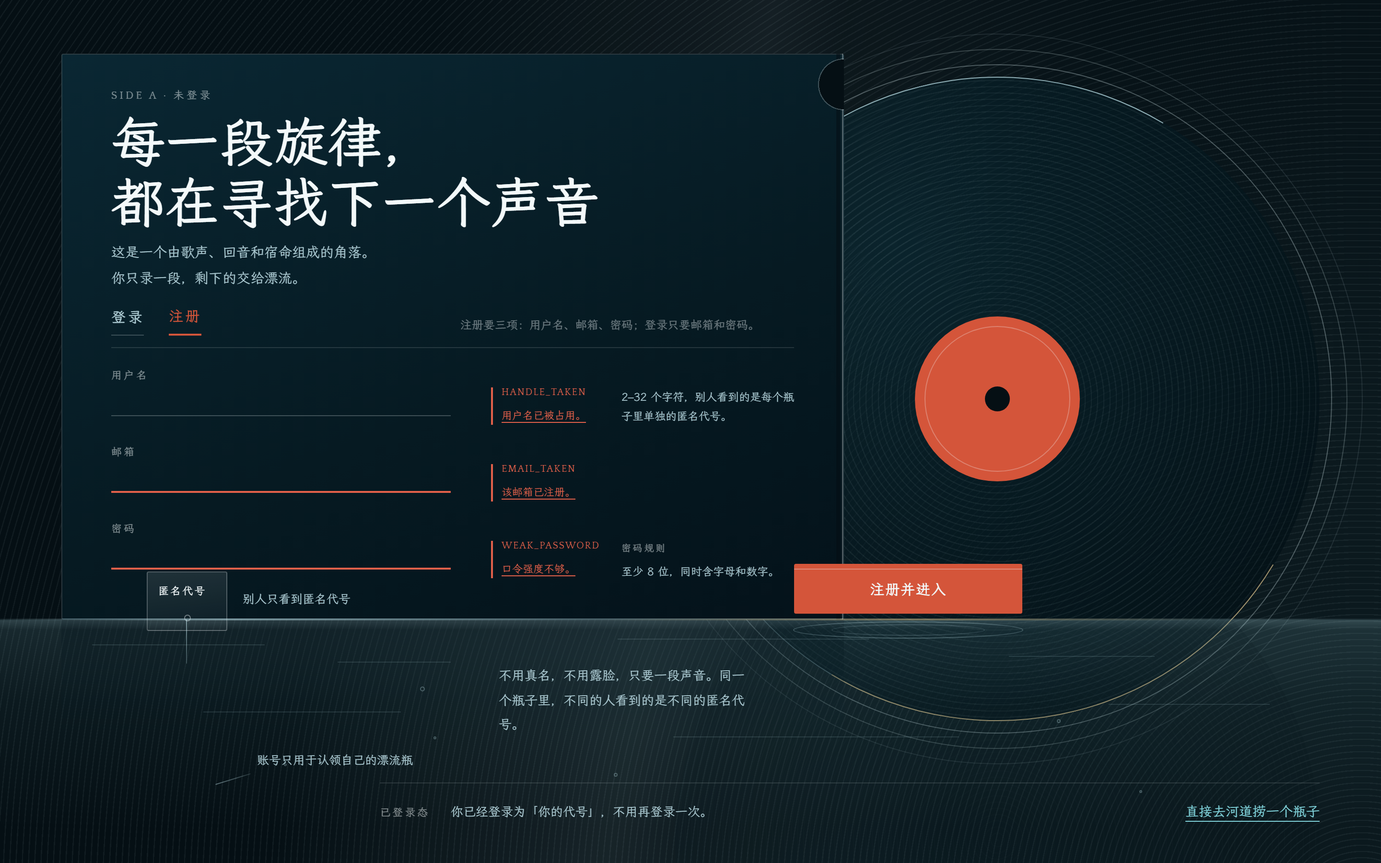
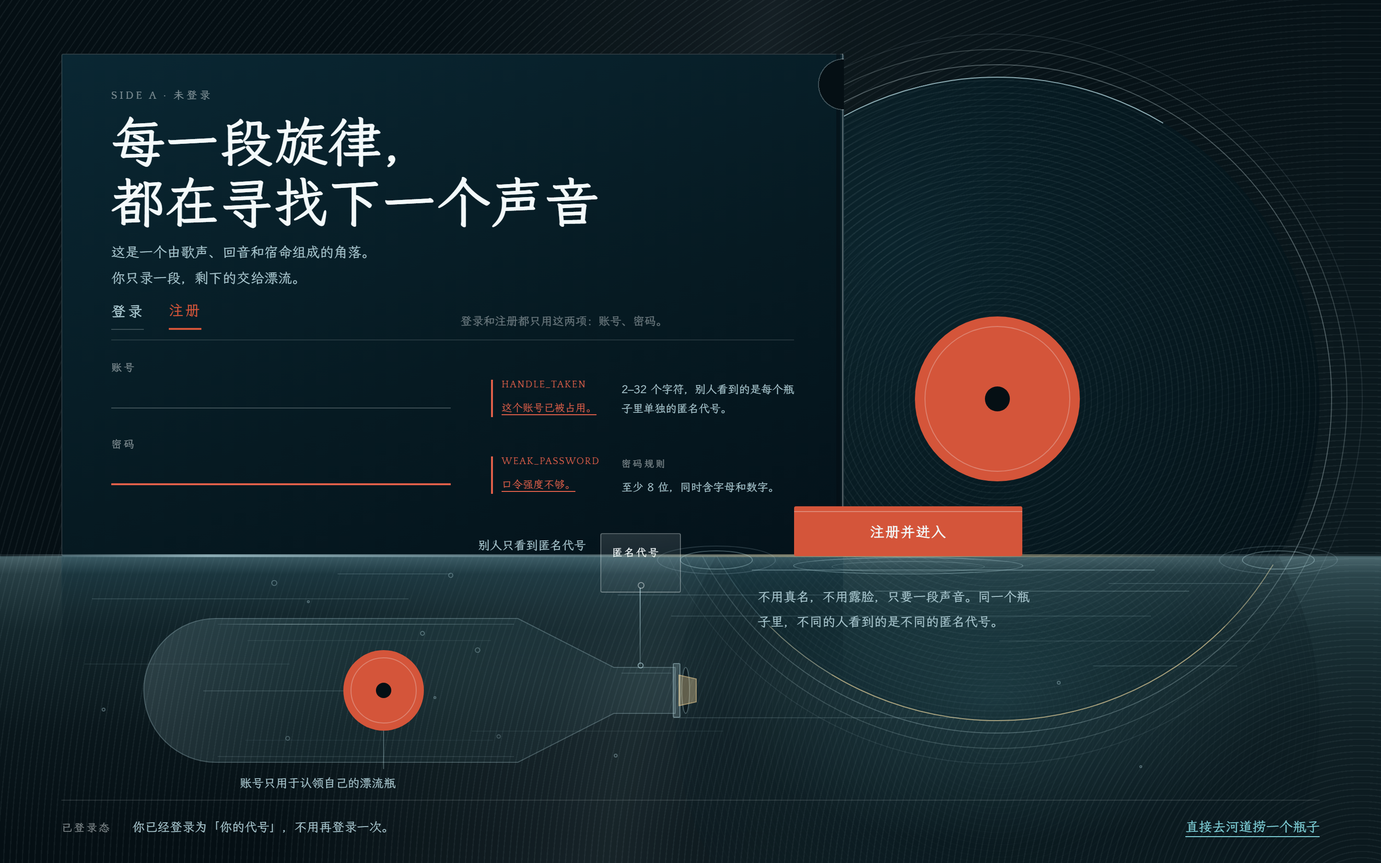
docs(design-explore): 契约 §3 登录按用户裁决改为两项（账号·密码），并把『与源码的有意偏离 + 实现依赖』写明
用户裁决：确认删掉邮箱字段。已改 _LANGUAGE.md §3：登录/注册只用『账号 · 密码』两项，错误码保留 HANDLE_TAKEN / WEAK_PASSWORD。

**同时写明这不是漏画，而是有意偏离源码**（源码 login-page.tsx 里登录与注册都传 email：name=email、login({email,password})、register({handle,email,password})、EMAIL_TAKEN 落字段），并记下实现依赖：这等于**把登录凭据从邮箱改成账号**，落地时必须同步 CONTEXT.md 与 packages/shared 的 zod 契约（以及 /auth 路由），否则前后端对不上 —— 此项在写契约/写代码阶段必须再次确认。目的：以后任何人读到这页都不会把它当 bug 修回去。

提交同时纳入登录/404 两页的漂流瓶主题适配交付（由 b2f8d37f 完成，我看过图：登录页有『认领线』的想法、404 有断流+漂走的瓶），以及随后的用户裁决 —— 登录页被判『太繁杂』已派新 agent 打回改造（要求删掉横贯水线、换掉与瓶子详情同族的横躺瓶、做到简洁/高级/艺术）。

diff --git a/docs/ui-review/design-explore/p-login-record.html b/docs/ui-review/design-explore/p-login-record.html
@@ -30,8 +30,8 @@
       .glint { position:absolute; inset:0; mix-blend-mode:screen;
         background:linear-gradient(101deg, transparent 28%, rgba(228,247,252,.045) 45%, rgba(228,247,252,.065) 50%, rgba(228,247,252,.028) 55%, transparent 72%); }
 
-      /* 唱片盘心 (1040,416) r336：左半张压在封套背后，右半张抽在外面；水线从 y=646 横切过去，
-         盘面下缘 106px 沉在水里 —— 唱片刻在沟槽上的水，和河道里的水是同一条 */
+      /* 唱片盘心 (1040,416) r336：左半张压在封套背后，右半张抽在外面；
+         水线从 y=580 横切过去，盘面下缘 172px 落在水里 —— 沟槽里流的就是这条河的水 */
       .disc { position:absolute; left:704px; top:80px; width:672px; height:672px; border-radius:50%;
         background:
           repeating-radial-gradient(circle at 50% 50%, rgba(216,243,246,.055) 0 1.2px, transparent 1.2px 6.5px),
@@ -52,58 +52,68 @@
       .label::after { content:''; position:absolute; left:50%; top:50%; width:26px; height:26px;
         margin:-13px 0 0 -13px; border-radius:50%; background:var(--ink); }
 
-      /* 封套：不透明，遮住唱片左半张；右缘是开口。**下沿正好落在水线上**，所以它是浮着的 */
-      .sleeve { position:absolute; left:64px; top:56px; width:816px; height:590px; border-radius:2px;
+      /* 封套：不透明，遮住唱片左半张；右缘是开口。下沿正好落在水线上，所以它是浮着的 */
+      .sleeve { position:absolute; left:64px; top:56px; width:816px; height:524px; border-radius:2px;
         background:linear-gradient(158deg, #0a2733 0%, #061a22 58%, #04121a 100%);
         border:1px solid rgba(243,249,250,.16); }
-      .mouth-dark { position:absolute; left:872px; top:56px; width:4px; height:590px; background:rgba(3,12,17,.5); }
-      .mouth { position:absolute; left:878px; top:56px; width:1px; height:590px; background:rgba(243,249,250,.34); }
+      .mouth-dark { position:absolute; left:872px; top:56px; width:4px; height:524px; background:rgba(3,12,17,.5); }
+      .mouth { position:absolute; left:878px; top:56px; width:1px; height:524px; background:rgba(243,249,250,.34); }
       /* 开口上的半圆指孔：真的从封套上咬掉一块，所以这里露出的是盘面底 */
       .notch { position:absolute; left:853px; top:61px; width:27px; height:54px;
         background:radial-gradient(circle 27px at 100% 50%,
           var(--ink) 0 26px, rgba(243,249,250,.24) 26px 27px, transparent 27px); }
 
-      /* ── 水面：y=646 一条横贯全页的水线 ───────────────────────────
-         线上 = 别人看到的那一面（封套、抽出的大半张盘、代号）；
-         线下 = 这只瓶子真正的样子（沉在水里的盘缘、认领线、水下的瓶）。 */
-      .below { position:absolute; left:0; right:0; top:646px; height:254px; overflow:hidden; }
+      /* ── 水面：y=580 一条横贯全页的水线 ───────────────────────────
+         线上 = 别人看到的那一面（封套、抽出的大半张盘、代号签条）；
+         线下 = 这只瓶子真正的样子（沉进水里的盘缘、折光、认领线与横躺的那只瓶）。 */
+      .below { position:absolute; left:0; right:0; top:580px; height:320px; overflow:hidden; }
       .veil { position:absolute; inset:0;
-        background:linear-gradient(180deg, rgba(160,226,236,.13), rgba(127,209,217,.055) 34%, rgba(5,15,20,0) 86%); }
-      /* 封套被水面截断后的倒影：越深越淡 */
-      .rf-sleeve { position:absolute; left:64px; top:0; width:816px; height:116px; opacity:.34;
-        background:linear-gradient(180deg, #04121a, #061a22 44%, #0a2733);
+        background:linear-gradient(180deg, rgba(160,226,236,.26), rgba(127,209,217,.12) 24%,
+          rgba(127,209,217,.04) 56%, rgba(5,15,20,0) 92%); }
+      /* 封套贴着水线的那道倒影：越深越淡，两侧留住 1px 亮边才读得出是个方东西 */
+      .rf-sleeve { position:absolute; left:64px; top:0; width:816px; height:130px; opacity:.5;
+        background:linear-gradient(180deg, #0d3341, #061a22 46%, #04121a);
+        border-left:1px solid rgba(203,238,246,.08); border-right:1px solid rgba(203,238,246,.14);
         -webkit-mask-image:linear-gradient(180deg, rgba(255,255,255,.95), rgba(255,255,255,0));
         mask-image:linear-gradient(180deg, rgba(255,255,255,.95), rgba(255,255,255,0)); }
-      /* 盘面沉入水里的那一段：整张盘沿水线镜像下来，只露 254px */
-      .rf-disc { position:absolute; left:704px; top:-566px; width:672px; height:672px; border-radius:50%; opacity:.17;
+      /* 盘面沉进水里的那一段：整张盘沿水线镜像下来 */
+      .rf-disc { position:absolute; left:704px; top:-500px; width:672px; height:672px; border-radius:50%; opacity:.24;
         background:
-          repeating-radial-gradient(circle at 50% 50%, rgba(216,243,246,.055) 0 1.2px, transparent 1.2px 6.5px),
+          repeating-radial-gradient(circle at 50% 50%, rgba(216,243,246,.06) 0 1.2px, transparent 1.2px 6.5px),
           radial-gradient(76% 76% at 34% 26%, rgba(10,48,60,.5), rgba(3,17,23,.78));
-        transform:translateY(460px) scaleY(-1);
+        transform:translateY(328px) scaleY(-1);
         -webkit-mask-image:linear-gradient(180deg, rgba(255,255,255,0) 6%, rgba(255,255,255,.9) 34%, rgba(255,255,255,.95));
         mask-image:linear-gradient(180deg, rgba(255,255,255,0) 6%, rgba(255,255,255,.9) 34%, rgba(255,255,255,.95)); }
-      /* 贴水面的折光：只在最上面几十像素，越深越少 */
-      .caustics span { position:absolute; height:1px; background:rgba(203,238,246,.13); }
-      .bub { position:absolute; border:1px solid rgba(203,238,246,.3); border-radius:50%; }
-      .surface { position:absolute; left:0; right:0; top:645px; height:2px; }
+      /* 泡在水里的那道盘缘：暖光被水吃了一半，只剩贴着水线的一截弧 */
+      .wet-rim { position:absolute; left:704px; top:-500px; width:672px; height:672px; border-radius:50%;
+        border:1px solid transparent; border-bottom-color:rgba(246,215,154,.3); }
+      /* 水面折光：横着切过没入水里的那半张盘 */
+      .streaks span { position:absolute; height:1px; }
+      .glow { position:absolute; left:640px; top:-60px; width:800px; height:420px; border-radius:50%;
+        background:radial-gradient(50% 50% at 50% 50%, rgba(127,209,217,.16), rgba(127,209,217,0) 72%); }
+      .caustics span { position:absolute; height:1px; background:rgba(203,238,246,.14); }
+      .bub { position:absolute; border:1px solid rgba(203,238,246,.34); border-radius:50%; }
+      .surface { position:absolute; left:0; right:0; top:578px; height:3px; }
       .surface::before { content:''; position:absolute; inset:0;
-        background:linear-gradient(90deg, rgba(203,238,246,.05) 0%, rgba(203,238,246,.5) 17%, rgba(203,238,246,.2) 43%,
-          rgba(246,215,154,.44) 66%, rgba(203,238,246,.15) 88%, rgba(203,238,246,.05) 100%); }
-      .surface::after { content:''; position:absolute; left:0; right:0; top:2px; height:10px;
-        background:linear-gradient(180deg, rgba(203,238,246,.12), rgba(5,15,20,0)); }
+        background:linear-gradient(90deg, rgba(203,238,246,.08) 0%, rgba(203,238,246,.62) 15%, rgba(203,238,246,.28) 42%,
+          rgba(246,215,154,.56) 65%, rgba(203,238,246,.2) 88%, rgba(203,238,246,.08) 100%); }
+      .surface::after { content:''; position:absolute; left:0; right:0; top:3px; height:18px;
+        background:linear-gradient(180deg, rgba(203,238,246,.16), rgba(5,15,20,0)); }
 
-      /* ── 认领装置：漂在水面上的是一张代号签条，一根线从它的孔里垂下去，
-            系在水下的那只瓶上 —— 线上头是人人都看得到的代号，线下头才是你的瓶子 ── */
-      .tag { position:absolute; left:153px; top:596px; width:84px; height:62px; border-radius:2px;
-        border:1px solid rgba(243,249,250,.26);
-        background:linear-gradient(174deg, rgba(243,249,250,.11), rgba(243,249,250,.03)); }
+      /* ── 认领装置：漂在水面上的是一张代号签条，一根线从签条的孔里垂下去，
+            栓在水下那只横躺着的瓶的瓶颈上 —— 线上头人人都看得到，线下头才是你的瓶 ── */
+      .tag { position:absolute; left:626px; top:556px; width:84px; height:62px; border-radius:2px;
+        border:1px solid rgba(243,249,250,.3);
+        background:linear-gradient(174deg, rgba(243,249,250,.13), rgba(243,249,250,.035)); }
       .tag b { position:absolute; left:11px; top:12px; width:62px; font-size:11px; font-weight:400;
         letter-spacing:.14em; color:var(--paper); }
-      .tag i { position:absolute; left:50%; top:44px; width:7px; height:7px; margin-left:-3.5px;
-        border:1px solid rgba(243,249,250,.42); border-radius:50%; }
-      .line { position:absolute; left:194px; top:646px; width:1px; height:46px;
-        background:linear-gradient(180deg, rgba(203,238,246,.55), rgba(203,238,246,.2)); }
+      .tag i { position:absolute; left:50%; top:50px; width:7px; height:7px; margin-left:-3.5px;
+        border:1px solid rgba(243,249,250,.46); border-radius:50%; }
+      .line { position:absolute; left:667px; top:613px; width:1px; height:81px;
+        background:linear-gradient(180deg, rgba(203,238,246,.6), rgba(203,238,246,.22)); }
       .dev { position:absolute; inset:0; }
+      /* 盘缘破开水面那一处：两圈从这里散出去的涟漪 —— 一眼看出这张盘有一半在水里 */
+      .edgewave { position:absolute; border:1px solid rgba(203,238,246,.32); border-radius:50%; }
 
       main { position:relative; z-index:2; }
       .cat { position:absolute; left:116px; top:92px; font-size:11px; letter-spacing:.24em;
@@ -115,13 +125,12 @@
       .rule { position:absolute; left:116px; width:712px; height:1px; background:var(--line); }
 
       /* 模式切换 = 压在封套左栏顶上的一对制式页签（源码里的 Tabs） */
-      .modes { position:absolute; left:116px; top:320px; display:flex; gap:26px; }
+      .modes { position:absolute; left:116px; top:314px; display:flex; gap:26px; }
       .mode { padding:0 0 9px; font-family:inherit; font-size:15px; font-weight:700; letter-spacing:.14em;
         color:var(--muted); background:transparent; border:0; border-bottom:1px solid rgba(243,249,250,.22);
         cursor:pointer; }
       .mode.on { color:var(--coral); border-bottom:2px solid var(--coral); }
-      /* 两种模式差在哪一行字段：写出来，而不是让人猜 */
-      .modesnote { position:absolute; left:480px; top:330px; width:348px; font-size:12px; line-height:1.6;
+      .modesnote { position:absolute; left:480px; top:326px; width:348px; font-size:12px; line-height:1.6;
         color:rgba(243,249,250,.42); }
 
       /* 表单 = 一张印在封套左栏的规格表：字段名与控件 · 页边注说明 · 字段级错误的落位 */
@@ -142,32 +151,29 @@
       .frow .errcell .v { font-size:11px; line-height:1.6;
         text-decoration:underline; text-decoration-thickness:1px; text-underline-offset:3px; }
 
-      .r-handle { top:384px; }
-      .r-email { top:464px; }
-      .r-password { top:544px; }
+      .r-handle { top:376px; }
+      .r-password { top:456px; }
 
       /* 主行动 = 封套开口上的拉片：一半在封套里，一半压在唱片上，脚底就贴着水面 */
-      .tab { position:absolute; left:828px; top:588px; width:238px; height:52px; padding:0;
+      .tab { position:absolute; left:828px; top:528px; width:238px; height:52px; padding:0;
         font-family:inherit; font-size:15px; font-weight:700; letter-spacing:.06em;
         color:var(--paper); background:var(--coral); border:0; border-radius:2px; cursor:pointer; }
       .tab::before { content:''; position:absolute; left:0; top:5px; right:0; height:1px;
         background:rgba(243,249,250,.32); }
       /* 拉片底下压出来的涟漪：按下去，它就进水了 */
-      .rip { position:absolute; border:1px solid rgba(203,238,246,.26); border-radius:50%; }
-      .rip.a { left:827px; top:648px; width:240px; height:18px; }
-      .rip.b { left:867px; top:651px; width:160px; height:12px; border-color:rgba(203,238,246,.16); }
+      .rip { position:absolute; border:1px solid rgba(203,238,246,.3); border-radius:50%; }
+      .rip.a { left:827px; top:581px; width:240px; height:18px; }
+      .rip.b { left:867px; top:585px; width:160px; height:12px; border-color:rgba(203,238,246,.18); }
 
-      /* 装置的图注：一条在水上、一条在水下 */
+      /* 装置的图注：一条在水上（贴住签条左沿），一条在水下（指向瓶里那枚标签盘） */
       .devlab { position:absolute; font-size:12.5px; line-height:1.7; color:var(--muted); }
-      .devlab.up { left:253px; top:614px; }
-      .devlab.dn { left:268px; top:782px; width:220px; }
-      .leader { position:absolute; left:224px; top:812px; width:38px; height:1px;
-        background:linear-gradient(90deg, rgba(203,238,246,.44), rgba(203,238,246,.14)); transform:rotate(-17deg); }
-      /* 匿名承诺写在水面之下 */
-      .etiquette { position:absolute; left:520px; top:692px; width:262px; font-size:13.5px;
+      .devlab.up { left:498px; top:558px; width:113px; text-align:right; }
+      .devlab.dn { left:250px; top:806px; width:220px; }
+      /* 匿名承诺写在水面之下：它管的是每个瓶子里的那个代号 */
+      .etiquette { position:absolute; left:790px; top:610px; width:290px; font-size:13.5px;
         line-height:1.9; color:var(--muted); }
 
-      .band { position:absolute; left:396px; right:64px; top:816px; padding-top:20px;
+      .band { position:absolute; left:64px; right:64px; top:834px; padding-top:18px;
         border-top:1px solid var(--line); display:flex; align-items:baseline; gap:22px; }
       .band .said { font-size:13px; color:var(--muted); }
       .go { margin-left:auto; font-size:14px; color:var(--glass);
@@ -189,64 +195,93 @@
       <div class="mouth"></div>
       <div class="notch"></div>
 
-      <!-- 水线以下：封套与唱片的倒影、贴水面的折光、稀疏上升的气泡 -->
+      <!-- 水线以下：倒影、泡在水里的盘缘、折光、稀疏上升的气泡 -->
       <div class="below">
         <div class="veil"></div>
+        <div class="glow"></div>
         <div class="rf-sleeve"></div>
         <div class="rf-disc"></div>
-        <div class="caustics">
-          <span style="left:96px; top:26px; width:180px"></span>
-          <span style="left:352px; top:44px; width:118px"></span>
-          <span style="left:644px; top:20px; width:262px"></span>
-          <span style="left:1052px; top:38px; width:152px"></span>
-          <span style="left:212px; top:96px; width:206px"></span>
-          <span style="left:702px; top:122px; width:298px"></span>
-          <span style="left:1156px; top:88px; width:168px"></span>
+        <div class="wet-rim"></div>
+        <div class="streaks">
+          <span style="left:784px; top:14px; width:420px; background:rgba(203,238,246,.3)"></span>
+          <span style="left:912px; top:36px; width:328px; background:rgba(203,238,246,.2)"></span>
+          <span style="left:700px; top:62px; width:500px; background:rgba(203,238,246,.13)"></span>
+          <span style="left:1042px; top:88px; width:266px; background:rgba(203,238,246,.1)"></span>
+          <span style="left:96px; top:44px; width:330px; background:rgba(203,238,246,.14)"></span>
+          <span style="left:88px; top:112px; width:214px; background:rgba(203,238,246,.08)"></span>
+          <span style="left:492px; top:182px; width:262px; background:rgba(203,238,246,.07)"></span>
         </div>
-        <div class="bub" style="left:438px; top:70px; width:5px; height:5px"></div>
-        <div class="bub" style="left:452px; top:122px; width:3px; height:3px"></div>
-        <div class="bub" style="left:640px; top:160px; width:4px; height:4px"></div>
-        <div class="bub" style="left:1102px; top:104px; width:4px; height:4px"></div>
-        <div class="bub" style="left:1188px; top:178px; width:3px; height:3px"></div>
-        <div class="bub" style="left:296px; top:150px; width:3px; height:3px"></div>
+        <div class="caustics">
+          <span style="left:352px; top:18px; width:118px"></span>
+          <span style="left:644px; top:40px; width:262px"></span>
+          <span style="left:1156px; top:28px; width:168px"></span>
+          <span style="left:212px; top:140px; width:206px"></span>
+          <span style="left:702px; top:168px; width:298px"></span>
+          <span style="left:1140px; top:114px; width:150px"></span>
+        </div>
+        <div class="bub" style="left:438px; top:78px; width:5px; height:5px"></div>
+        <div class="bub" style="left:452px; top:146px; width:3px; height:3px"></div>
+        <div class="bub" style="left:640px; top:206px; width:4px; height:4px"></div>
+        <div class="bub" style="left:1102px; top:130px; width:4px; height:4px"></div>
+        <div class="bub" style="left:1188px; top:218px; width:3px; height:3px"></div>
+        <div class="bub" style="left:320px; top:46px; width:3px; height:3px"></div>
+        <div class="bub" style="left:106px; top:158px; width:4px; height:4px"></div>
       </div>
 
       <!-- 漂在水面上的代号签条：别人只看到它 -->
       <div class="tag"><b class="meta">匿名代号</b><i></i></div>
       <div class="line"></div>
 
-      <!-- 水下那只瓶：玻璃剖面，瓶里泡着一枚珊瑚色标签盘 —— 认领的那一枚 */
+      <!-- 水下那只瓶：横躺着沉在水里（比例照漂流瓶详情页那只：大圆底 + 直肩收颈 + 口沿与瓶塞），
+           瓶颈栓着上面那根线，瓶里泡着一枚珊瑚色标签盘 -->
       <svg class="dev" width="1440" height="900" viewBox="0 0 1440 900" fill="none" aria-hidden="true">
         <defs>
-          <linearGradient id="gl" x1="139" y1="690" x2="251" y2="896" gradientUnits="userSpaceOnUse">
-            <stop offset="0" stop-color="#cbeef6" stop-opacity=".18" />
-            <stop offset=".52" stop-color="#7fd1d9" stop-opacity=".07" />
-            <stop offset="1" stop-color="#cbeef6" stop-opacity=".04" />
+          <linearGradient id="gl" x1="150" y1="645" x2="716" y2="795" gradientUnits="userSpaceOnUse">
+            <stop offset="0" stop-color="#cbeef6" stop-opacity=".16" />
+            <stop offset=".4" stop-color="#7fd1d9" stop-opacity=".075" />
+            <stop offset=".74" stop-color="#7fd1d9" stop-opacity=".045" />
+            <stop offset="1" stop-color="#cbeef6" stop-opacity=".09" />
+          </linearGradient>
+          <linearGradient id="lip" x1="225" y1="650" x2="640" y2="650" gradientUnits="userSpaceOnUse">
+            <stop offset="0" stop-color="#cbeef6" stop-opacity=".06" />
+            <stop offset=".18" stop-color="#d8f3f6" stop-opacity=".34" />
+            <stop offset=".7" stop-color="#cbeef6" stop-opacity=".12" />
+            <stop offset="1" stop-color="#cbeef6" stop-opacity=".22" />
           </linearGradient>
         </defs>
-        <path d="M178 717 L178 744 C178 764 139 766 139 788 L139 878 C139 888 148 894 158 894
-                 L232 894 C242 894 251 888 251 878 L251 788 C251 766 212 764 212 744 L212 717 Z"
+        <!-- 玻璃：整只瓶是一层薄薄的高光，不是一根粗线 -->
+        <path d="M225 645 L540 645 L640 696 L704 696 L704 744 L640 744 L540 795 L225 795
+                 A75 75 0 0 1 225 645 Z"
           fill="url(#gl)" stroke="#cbeef6" stroke-opacity=".26" />
-        <!-- 瓶壁：左侧受光的那道厚玻璃，右侧回光 -->
-        <path d="M152 800 L152 872" stroke="#cbeef6" stroke-opacity=".22" />
-        <path d="M238 800 L238 872" stroke="#cbeef6" stroke-opacity=".12" />
-        <!-- 瓶塞与口沿：塞子还在，说明这只瓶子还没被人拿走 -->
-        <rect x="176" y="692" width="38" height="22" rx="2" fill="#f6d79a" fill-opacity=".32"
-          stroke="#f6d79a" stroke-opacity=".52" />
-        <rect x="171" y="712" width="48" height="6" rx="1" fill="#cbeef6" fill-opacity=".15"
+        <path d="M227 651 L536 651" stroke="url(#lip)" />
+        <path d="M227 789 L536 789" stroke="#cbeef6" stroke-opacity=".1" />
+        <path d="M258 668 L512 668" stroke="#cbeef6" stroke-opacity=".07" />
+        <path d="M256 772 L514 772" stroke="#cbeef6" stroke-opacity=".05" />
+        <!-- 瓶颈那道箍与口沿：口沿是窄窄一片立起来的玻璃，口是暗的 -->
+        <path d="M648 702 L700 702" stroke="#cbeef6" stroke-opacity=".13" />
+        <rect x="702" y="692" width="7" height="56" rx="1" fill="#cbeef6" fill-opacity=".18"
+          stroke="#cbeef6" stroke-opacity=".4" />
+        <ellipse cx="715" cy="720" rx="4" ry="24" fill="rgba(3,14,20,.55)"
           stroke="#cbeef6" stroke-opacity=".3" />
-        <circle cx="195" cy="700" r="2.8" stroke="#cbeef6" stroke-opacity=".45" />
+        <!-- 瓶塞还塞在口里，所以这只瓶子还没被人拿走；线从上面栓在瓶颈上 -->
+        <path d="M708 704 L726 708 L726 732 L708 736 Z" fill="#f6d79a" fill-opacity=".36"
+          stroke="#f6d79a" stroke-opacity=".54" />
+        <circle cx="668" cy="694" r="2.6" stroke="#cbeef6" stroke-opacity=".55" />
         <!-- 瓶里那一枚标签盘：唱片落在水里，标签落在瓶里 -->
-        <circle cx="195" cy="828" r="30" fill="#d4553a" />
-        <circle cx="195" cy="828" r="23" stroke="#f3f9fa" stroke-opacity=".26" />
-        <circle cx="195" cy="828" r="5.5" fill="#050f14" />
-        <circle cx="168" cy="792" r="2.4" stroke="#cbeef6" stroke-opacity=".3" />
-        <circle cx="222" cy="764" r="1.8" stroke="#cbeef6" stroke-opacity=".26" />
-        <circle cx="228" cy="668" r="2" stroke="#cbeef6" stroke-opacity=".28" />
-        <path d="M224 812 L262 796" stroke="#cbeef6" stroke-opacity=".3" />
+        <circle cx="400" cy="720" r="42" fill="#d4553a" />
+        <circle cx="400" cy="720" r="34" stroke="#f3f9fa" stroke-opacity=".28" />
+        <circle cx="400" cy="720" r="8" fill="#050f14" />
+        <!-- 玻璃里外那几颗泡 -->
+        <circle cx="498" cy="678" r="2.4" stroke="#cbeef6" stroke-opacity=".3" />
+        <circle cx="300" cy="770" r="2" stroke="#cbeef6" stroke-opacity=".26" />
+        <circle cx="520" cy="768" r="1.8" stroke="#cbeef6" stroke-opacity=".24" />
+        <circle cx="470" cy="600" r="2.2" stroke="#cbeef6" stroke-opacity=".3" />
+        <circle cx="516" cy="566" r="1.6" stroke="#cbeef6" stroke-opacity=".26" />
+        <circle cx="286" cy="608" r="2.6" stroke="#cbeef6" stroke-opacity=".3" />
+        <path d="M400 762 L400 802" stroke="#cbeef6" stroke-opacity=".3" />
       </svg>
 
-      <!-- 水面线：压在倒影、签条与瓶子之上，一条线把这一页切成两面 -->
+      <!-- 水面线：压在倒影、签条、认领线与瓶子之上，一条线把这一页切成两面 -->
       <div class="surface"></div>
     </div>
 
@@ -255,25 +290,19 @@
       <h1>每一段旋律，<br />都在寻找下一个声音</h1>
       <p class="lede">这是一个由歌声、回音和宿命组成的角落。<br />你只录一段，剩下的交给漂流。</p>
 
-      <div class="rule" style="top:362px"></div>
+      <div class="rule" style="top:354px"></div>
 
       <div class="modes">
         <button class="mode" type="button">登录</button>
         <button class="mode on" type="button">注册</button>
       </div>
-      <p class="modesnote meta">注册要三项：用户名、邮箱、密码；登录只要邮箱和密码。</p>
+      <p class="modesnote meta">登录和注册都只用这两项：账号、密码。</p>
 
       <div class="frow r-handle">
-        <label class="lbl meta fname" for="handle">用户名</label>
+        <label class="lbl meta fname" for="handle">账号</label>
         <input id="handle" name="handle" type="text" autocomplete="username" />
         <p class="note">2–32 个字符，别人看到的是每个瓶子里单独的匿名代号。</p>
-        <p class="errcell" role="alert"><span class="lbl meta">HANDLE_TAKEN</span><span class="v">用户名已被占用。</span></p>
-      </div>
-
-      <div class="frow r-email bad">
-        <label class="lbl meta fname" for="email">邮箱</label>
-        <input id="email" name="email" type="email" autocomplete="email" aria-invalid="true" />
-        <p class="errcell" role="alert"><span class="lbl meta">EMAIL_TAKEN</span><span class="v">该邮箱已注册。</span></p>
+        <p class="errcell" role="alert"><span class="lbl meta">HANDLE_TAKEN</span><span class="v">这个账号已被占用。</span></p>
       </div>
 
       <div class="frow r-password bad">
@@ -286,9 +315,13 @@
       <button class="tab" type="button">注册并进入</button>
       <span class="rip a"></span>
       <span class="rip b"></span>
+      <!-- 盘缘破水处：左右各两圈 -->
+      <span class="edgewave" style="left:709px; top:574px; width:76px; height:20px"></span>
+      <span class="edgewave" style="left:685px; top:569px; width:124px; height:30px; border-color:rgba(203,238,246,.16)"></span>
+      <span class="edgewave" style="left:1295px; top:574px; width:76px; height:20px"></span>
+      <span class="edgewave" style="left:1271px; top:569px; width:124px; height:30px; border-color:rgba(203,238,246,.16)"></span>
 
       <p class="devlab up">别人只看到匿名代号</p>
-      <span class="leader"></span>
       <p class="devlab dn">账号只用于认领自己的漂流瓶</p>
 
       <p class="etiquette">不用真名，不用露脸，只要一段声音。同一个瓶子里，不同的人看到的是不同的匿名代号。</p>

diff --git a/docs/ui-review/design-explore/p-404-record.html b/docs/ui-review/design-explore/p-404-record.html
@@ -64,8 +64,8 @@
         background:linear-gradient(180deg, rgba(246,215,154,.075), rgba(246,215,154,.025) 40%, rgba(5,15,20,0) 72%); }
       /* 干裂的水位痕：曾经有水的地方，现在只剩一道晒干的白印 */
       .tidewater { position:absolute; left:0; right:0; top:452px; height:1px;
-        background:linear-gradient(90deg, transparent 0%, rgba(246,215,154,.14) 20%, rgba(246,215,154,.08) 58%, transparent 96%); }
-      .crack { position:absolute; height:1px; background:rgba(216,243,246,.16); }
+        background:linear-gradient(90deg, transparent 0%, rgba(246,215,154,.18) 20%, rgba(246,215,154,.1) 58%, transparent 96%); }
+      .crack { position:absolute; height:1px; background:rgba(216,243,246,.2); }
 
       .tl { position:absolute; left:76px; top:64px; }
       .status { position:absolute; right:76px; top:58px; font-size:34px; line-height:1; color:rgba(169,199,207,.85); }
@@ -215,6 +215,8 @@
       <div class="crack" style="left:1156px; top:638px; width:196px; transform:rotate(1.1deg)"></div>
       <div class="crack" style="left:868px; top:434px; width:170px; transform:rotate(-1.2deg)"></div>
       <div class="crack" style="left:1240px; top:472px; width:150px; transform:rotate(1.3deg)"></div>
+      <div class="crack" style="left:112px; top:748px; width:196px; transform:rotate(-1.1deg)"></div>
+      <div class="crack" style="left:396px; top:776px; width:154px; transform:rotate(1.2deg)"></div>
 
       <!-- 断口往下漏的水：落到干床上的那几道细流，末尾还坠着水珠 -->
       <div class="drips">

diff --git a/docs/ui-review/design-explore/_LANGUAGE.md b/docs/ui-review/design-explore/_LANGUAGE.md
@@ -112,7 +112,9 @@ html { overflow:hidden; }
 - **我的**：身份卡（账号只用于认领自己的漂流瓶；别人只看到匿名代号）/ 管理员·普通用户标记 / 我参与过的漂流瓶（跨设备、被斩的段也算）/ 我的收藏 / 我的徽章 / 消息（只显示你自己的；留言送达·未送达·作品进公海）。
 - **设置**：匿名的边界三条（每支瓶子一个独立代号；别人拿不到你的账号；账号只用于认领）/ 当前身份（未登录 / 已登录）/ 登出（只清掉这台设备的会话）/ 伴奏与授权（CC BY 4.0 署名义务 → 「查看署名与许可」）/ 契约版本 / 环境提示（录音只在 `https://` 或 `localhost` 下可用）。
 - **审核台**：Tab 待处理 / 历史裁决 / 每行：举报对象（瓶子·唱段·留言）+ 举报时间 + 状态徽记（待处理·已处理·已驳回·已删段·已恢复唱段·已删瓶下架·已封禁作者）+ 动作（**按对象类型**：唱段→驳回·删段·封禁作者；瓶子→驳回·删瓶下架·封禁作者；留言→驳回·封禁作者）/ 历史里的「恢复这一段」/ 非管理员态：「审核台只对管理员开放」。
-- **登录**：标题「每一段旋律，都在寻找下一个声音」/ 说明「这是一个由歌声、回音和宿命组成的角落。你只录一段，剩下的交给漂流。」/ **登录 / 注册 两种模式**（源码有 `Tabs` 切换）+ **邮箱字段**（源码：`register({ handle, email, password })`） —— 注册=用户名·邮箱·密码，登录=邮箱·密码 / 密码规则（≥8 位且同时含字母和数字）/ 「注册并进入」 / 字段级错误（`EMAIL_TAKEN` · `HANDLE_TAKEN` · `WEAK_PASSWORD` 落到对应字段）/ 「不用真名，不用露脸，只要一段声音。同一个瓶子里，不同的人看到的是不同的匿名代号。」/ 已登录态：「你已经登录为 X，不用再登录一次」+ 「直接去河道捞一个瓶子」。
+- **登录**：标题「每一段旋律，都在寻找下一个声音」/ 说明「这是一个由歌声、回音和宿命组成的角落。你只录一段，剩下的交给漂流。」/ **登录 / 注册 两种模式**（源码有 `Tabs` 切换）+ **只用两项：账号 · 密码**（⚠ 见下）/ 密码规则（≥8 位且同时含字母和数字）/ 「注册并进入」/ 字段级错误（`HANDLE_TAKEN` · `WEAK_PASSWORD` 落到对应字段）
+  ⚠ **与源码的有意偏离（用户裁决，2026-09-23）**：源码 `login-page.tsx` 里**登录与注册都传 email**（`name="email"`、`login({ email, password })`、`register({ handle, email, password })`、`EMAIL_TAKEN` 落字段）。本设计**有意不画邮箱**，简化到「账号 · 密码」两项。
+  **不要把它当 bug 修回去。** 实现依赖：这等于把**登录凭据从邮箱改成账号** —— 落地时必须同步 `CONTEXT.md` 与 `packages/shared` 的 zod 契约（以及 `/auth` 路由），否则前后端对不上。此项**在写契约/写代码阶段必须再次确认**。/ 「不用真名，不用露脸，只要一段声音。同一个瓶子里，不同的人看到的是不同的匿名代号。」/ 已登录态：「你已经登录为 X，不用再登录一次」+ 「直接去河道捞一个瓶子」。
 - **404**：标题「找不到这一页」/ 「这条水路不存在」/ 说明「这个地址可能是旧的，或者瓶子已经被别人接走、链接失效了。」/ 「回首页」/ 「也可以换个入口继续：去河道捞一个漂流瓶 · 去公海听完成的作品」。
 
 ---
